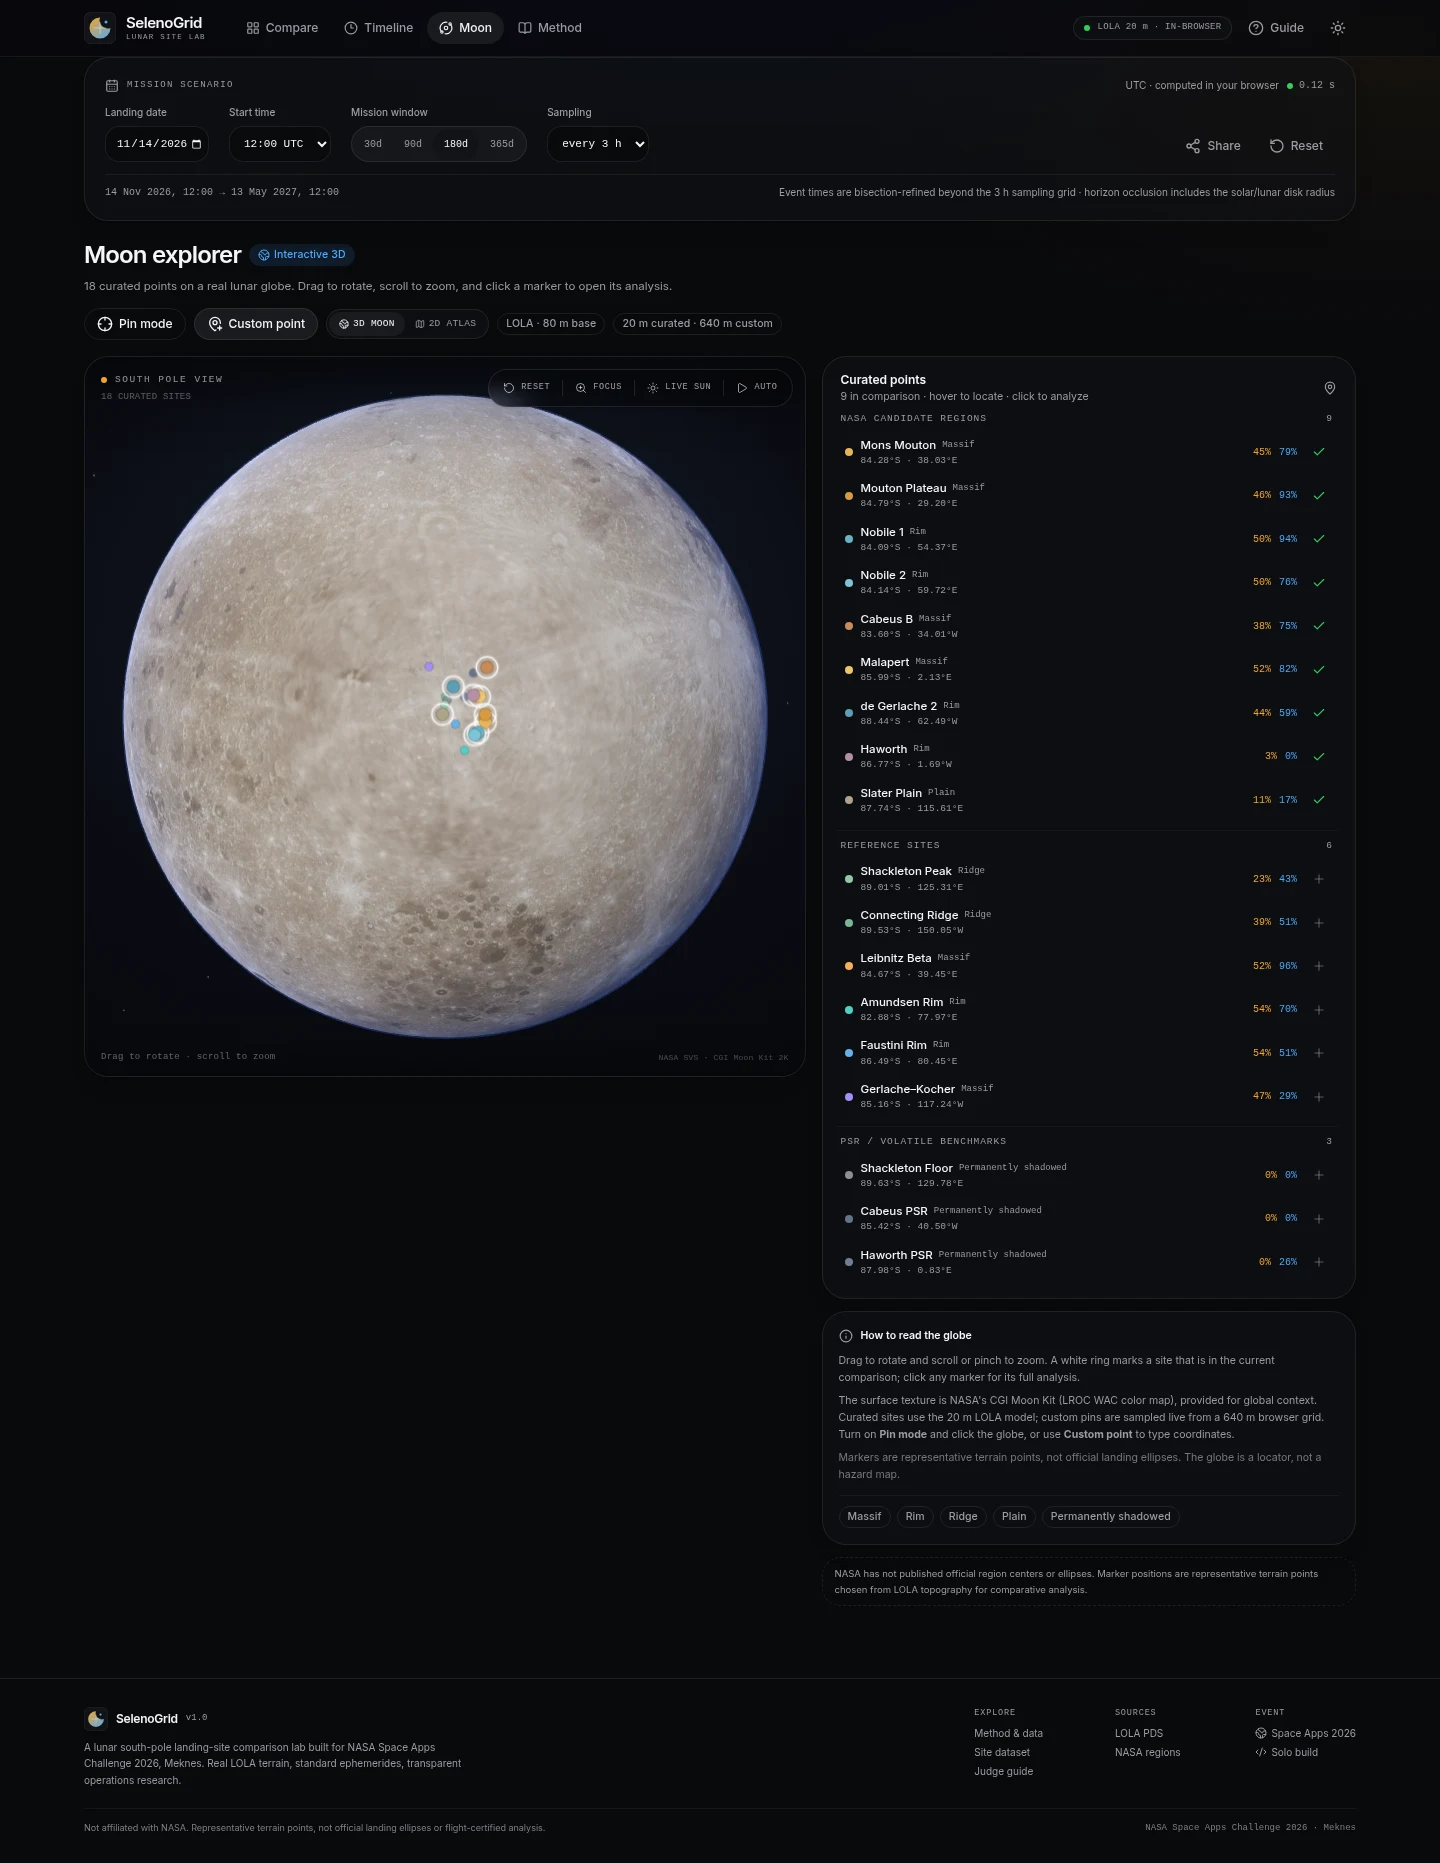
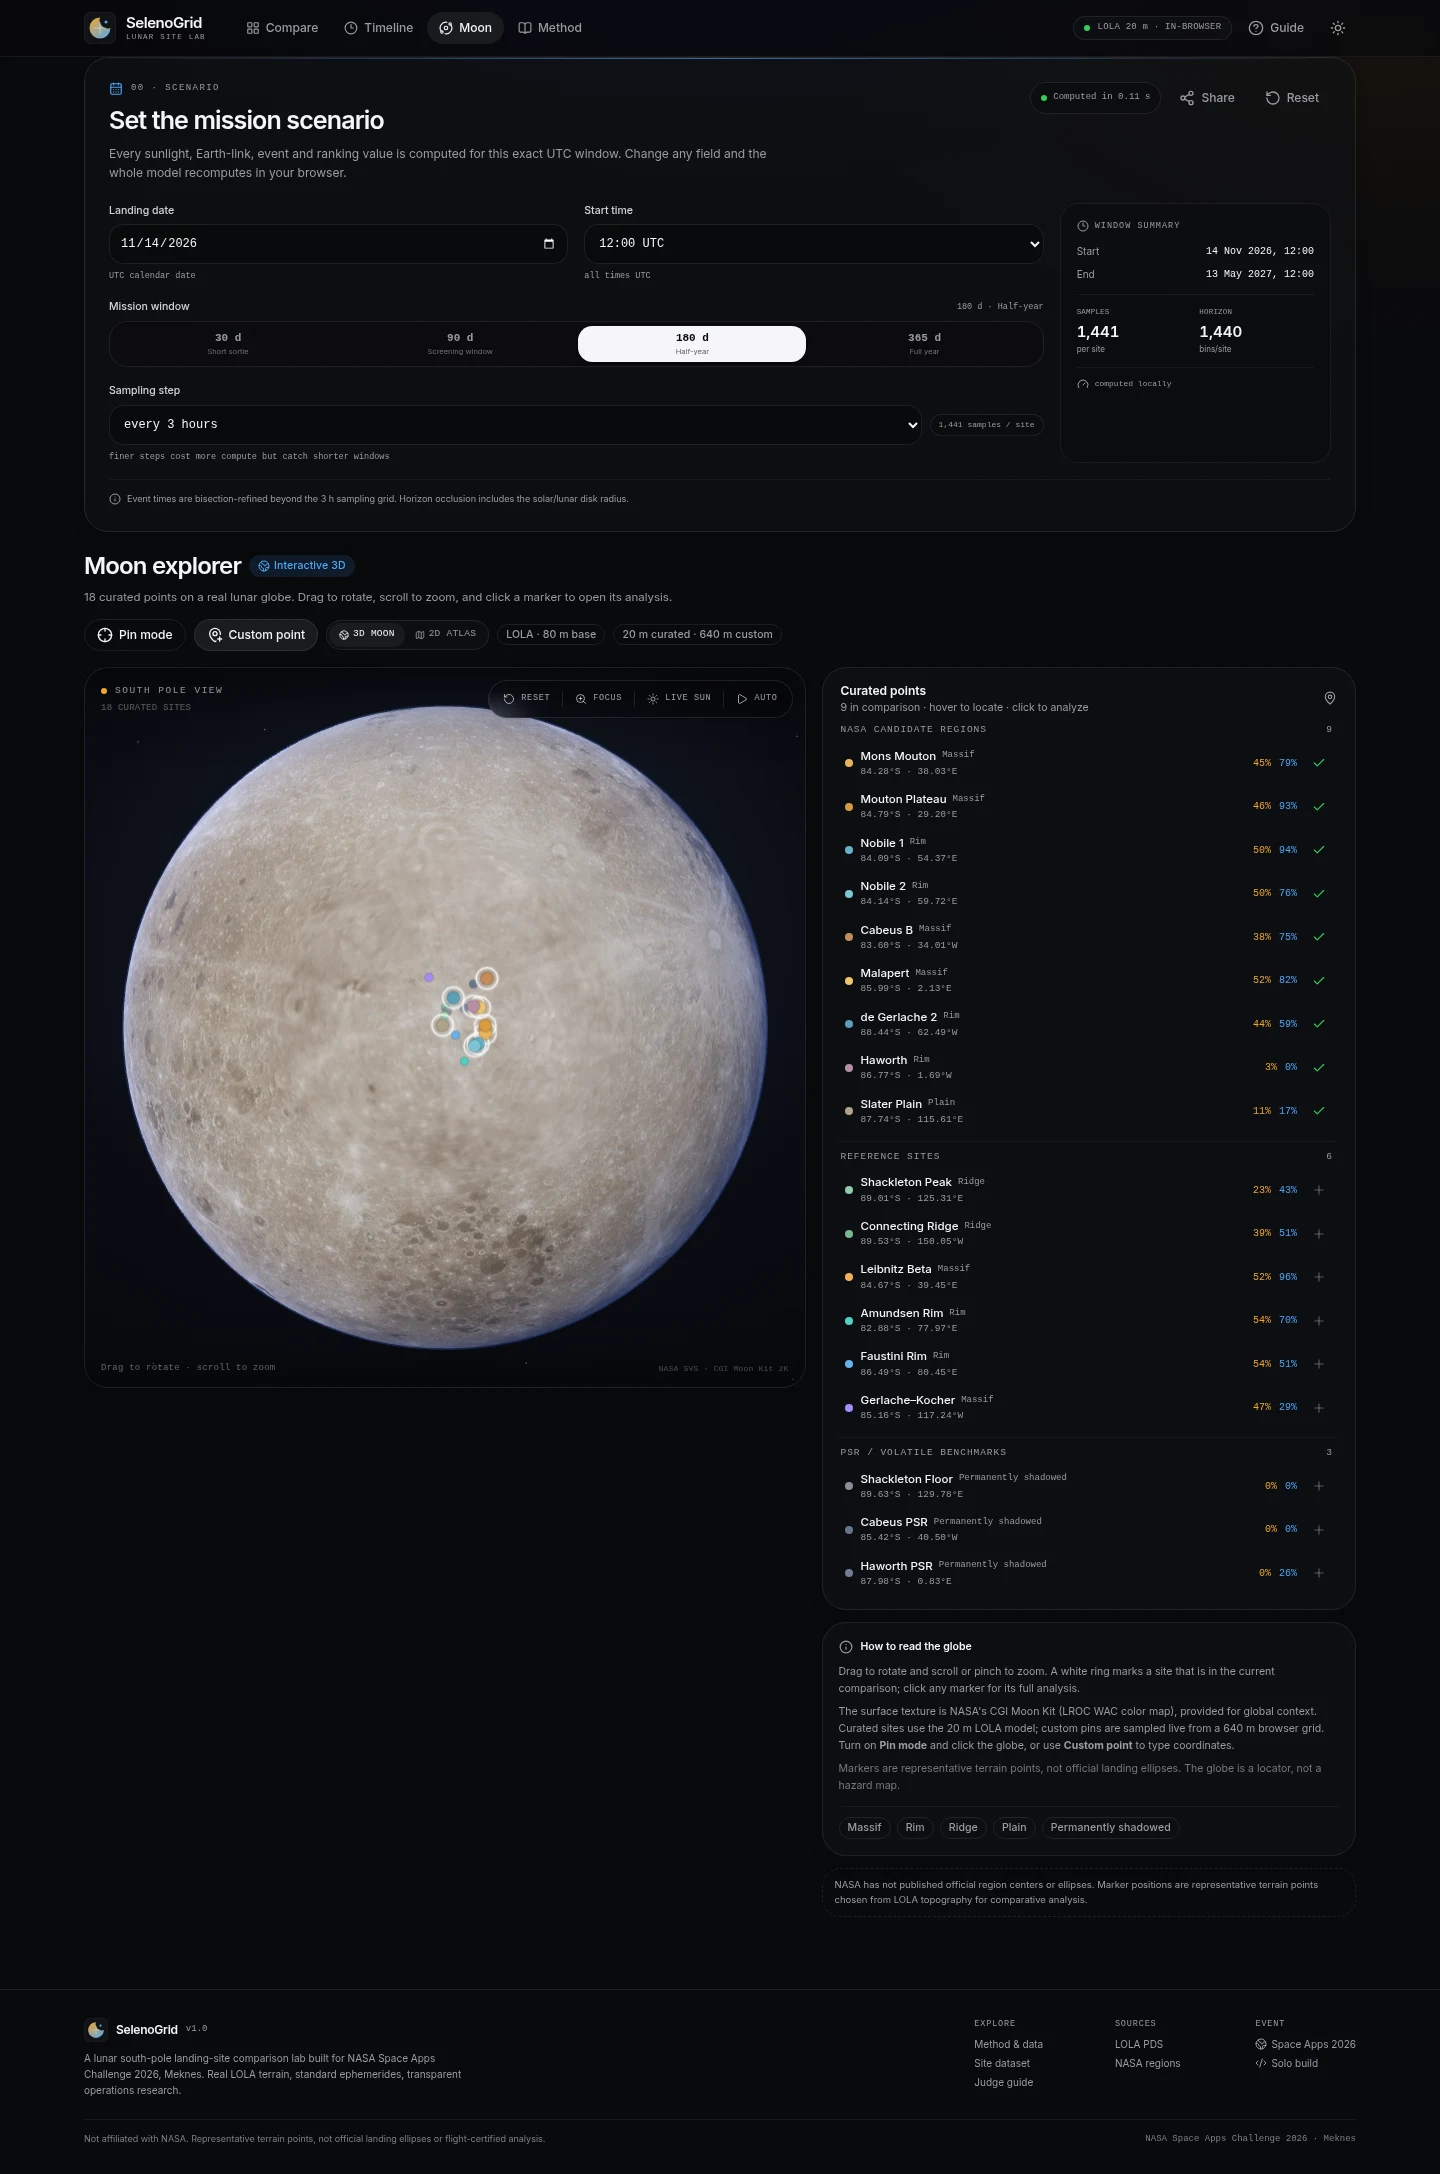
Rebuild the mission scenario as a first-class control surface
Expands the scenario bar into a clear scenario builder with UTC framing, four window presets, explicit sampling, a start/end and sample-count summary, local compute status, share and reset actions, and updated screenshots.

diff --git a/src/components/ScenarioBar.tsx b/src/components/ScenarioBar.tsx
@@ -1,10 +1,24 @@
 import { useState } from 'react'
-import { CalendarDays, Check, Loader2, RotateCcw, Share2 } from 'lucide-react'
+import {
+  CalendarDays,
+  Check,
+  Clock3,
+  Gauge,
+  Info,
+  Loader2,
+  RotateCcw,
+  Share2,
+} from 'lucide-react'
 import { Button } from '@/components/ui/button'
 import { cn } from '@/lib/utils'
 import { addDays, fmtDateTimeUtc } from '@/lib/format'
 
-const WINDOWS = [30, 90, 180, 365]
+const WINDOWS = [
+  { days: 30, hint: 'Short sortie' },
+  { days: 90, hint: 'Screening window' },
+  { days: 180, hint: 'Half-year' },
+  { days: 365, hint: 'Full year' },
+]
 const STEPS = [1, 3, 6]
 const HOURS = [0, 6, 12, 18]
 
@@ -34,8 +48,13 @@ export function ScenarioBar({
   computeMs: number
 }) {
   const [copied, setCopied] = useState(false)
-  const startMs = Date.parse(`${date}T${String(hour).padStart(2, '0')}:00:00.000Z`)
+  const summaryDate = /^\d{4}-\d{2}-\d{2}$/.test(date)
+    ? date
+    : new Date().toISOString().slice(0, 10)
+  const startMs = Date.parse(`${summaryDate}T${String(hour).padStart(2, '0')}:00:00.000Z`)
   const endMs = addDays(startMs, days)
+  const samples = Math.round((days * 86_400_000) / (stepHours * 3_600_000)) + 1
+  const windowHint = WINDOWS.find((item) => item.days === days)?.hint ?? `${days} days`
 
   const share = async () => {
     const link = window.location.href
@@ -58,97 +77,47 @@ export function ScenarioBar({
   return (
     <section
       id="scenario"
-      className="rounded-2xl border border-border bg-card/55 p-4 shadow-[var(--shadow-card)] sm:p-5"
+      className="relative scroll-mt-20 overflow-hidden rounded-2xl border border-border bg-card/60 p-5 shadow-[var(--shadow-card)] sm:p-6"
     >
-      <div className="flex flex-wrap items-center justify-between gap-2">
-        <div className="flex items-center gap-2 font-mono text-[9px] tracking-[0.14em] text-muted-foreground">
-          <CalendarDays className="size-3.5" />
-          MISSION SCENARIO
-        </div>
-        <div className="flex items-center gap-2 text-[10px] text-muted-foreground">
-          <span className="hidden sm:inline">UTC · computed in your browser</span>
-          {computing ? (
-            <span className="inline-flex items-center gap-1.5 text-earth" aria-live="polite">
-              <Loader2 className="size-3 animate-spin" />
-              Recomputing
-            </span>
-          ) : (
-            <span className="inline-flex items-center gap-1.5 font-mono" aria-live="polite">
-              <span className="size-1.5 rounded-full bg-success" />
-              {computeMs > 0 ? `${(computeMs / 1000).toFixed(2)} s` : 'ready'}
-            </span>
-          )}
-        </div>
-      </div>
+      <div
+        aria-hidden
+        className="absolute inset-x-0 top-0 h-px bg-gradient-to-r from-transparent via-earth/60 to-transparent"
+      />
 
-      <div className="mt-3 flex flex-wrap items-end gap-x-5 gap-y-3">
-        <label className="flex flex-col gap-1.5">
-          <span className="text-[10px] font-medium text-muted-foreground">Landing date</span>
-          <span className="relative">
-            <input
-              type="date"
-              value={date}
-              min="2024-01-01"
-              max="2035-12-31"
-              onChange={(e) => onDate(e.target.value)}
-              className="h-9 rounded-lg border border-border bg-background px-2.5 pr-1 font-mono text-[16px] text-foreground outline-none transition focus:border-ring focus:ring-2 focus:ring-ring/20 sm:text-[11px]"
-            />
-          </span>
-        </label>
-
-        <label className="flex flex-col gap-1.5">
-          <span className="text-[10px] font-medium text-muted-foreground">Start time</span>
-          <select
-            value={hour}
-            onChange={(e) => onHour(Number(e.target.value))}
-            className="h-9 rounded-lg border border-border bg-background px-2.5 font-mono text-[16px] text-foreground outline-none transition focus:border-ring focus:ring-2 focus:ring-ring/20 sm:text-[11px]"
-          >
-            {HOURS.map((h) => (
-              <option key={h} value={h}>
-                {String(h).padStart(2, '0')}:00 UTC
-              </option>
-            ))}
-          </select>
-        </label>
-
-        <div className="flex flex-col gap-1.5">
-          <span className="text-[10px] font-medium text-muted-foreground">Mission window</span>
-          <div className="flex h-9 items-center gap-0.5 rounded-full border border-border bg-secondary/70 p-0.5">
-            {WINDOWS.map((d) => (
-              <button
-                key={d}
-                type="button"
-                onClick={() => onDays(d)}
-                aria-pressed={days === d}
-                className={cn(
-                  'h-7 rounded-full px-2.5 font-mono text-[10px] transition-colors',
-                  days === d
-                    ? 'bg-card text-foreground shadow-sm'
-                    : 'text-muted-foreground hover:text-foreground',
-                )}
-              >
-                {d}d
-              </button>
-            ))}
+      <div className="flex flex-wrap items-start justify-between gap-3">
+        <div>
+          <div className="flex items-center gap-2 font-mono text-[9px] tracking-[0.16em] text-muted-foreground uppercase">
+            <CalendarDays className="size-3.5 text-earth" />
+            00 · Scenario
           </div>
+          <h2 className="mt-1.5 text-[22px] font-semibold tracking-[-0.035em] sm:text-[25px]">
+            Set the mission scenario
+          </h2>
+          <p className="mt-1 max-w-2xl text-[12px] leading-relaxed text-muted-foreground">
+            Every sunlight, Earth-link, event and ranking value is computed for this exact UTC
+            window. Change any field and the whole model recomputes in your browser.
+          </p>
         </div>
 
-        <label className="flex flex-col gap-1.5">
-          <span className="text-[10px] font-medium text-muted-foreground">Sampling</span>
-          <select
-            value={stepHours}
-            onChange={(e) => onStep(Number(e.target.value))}
-            className="h-9 rounded-lg border border-border bg-background px-2.5 font-mono text-[16px] text-foreground outline-none transition focus:border-ring focus:ring-2 focus:ring-ring/20 sm:text-[11px]"
+        <div className="flex flex-wrap items-center gap-1.5">
+          <span
+            className={cn(
+              'inline-flex h-8 items-center gap-1.5 rounded-full border border-border bg-background/50 px-2.5 font-mono text-[9px]',
+              computing ? 'text-earth' : 'text-muted-foreground',
+            )}
+            aria-live="polite"
           >
-            {STEPS.map((s) => (
-              <option key={s} value={s}>
-                every {s} h
-              </option>
-            ))}
-          </select>
-        </label>
-
-        <div className="ml-auto flex items-center gap-1">
+            {computing ? (
+              <Loader2 className="size-3 animate-spin" />
+            ) : (
+              <span className="size-1.5 rounded-full bg-success" />
+            )}
+            {computing
+              ? 'Recomputing…'
+              : computeMs > 0
+                ? `Computed in ${(computeMs / 1000).toFixed(2)} s`
+                : 'Ready'}
+          </span>
           <Button
             variant="ghost"
             size="sm"
@@ -171,14 +140,146 @@ export function ScenarioBar({
         </div>
       </div>
 
-      <div className="mt-3 flex flex-wrap items-center justify-between gap-2 border-t border-border/70 pt-2.5 text-[10px] text-muted-foreground">
-        <span className="font-mono">
-          {fmtDateTimeUtc(startMs)} → {fmtDateTimeUtc(endMs)}
-        </span>
-        <span>
-          Event times are bisection-refined beyond the {stepHours} h sampling grid · horizon
-          occlusion includes the solar/lunar disk radius
-        </span>
+      <div className="mt-5 grid gap-4 xl:grid-cols-[1.55fr_0.45fr]">
+        <div className="grid grid-cols-2 gap-3 sm:gap-4">
+          <label className="flex flex-col gap-1.5">
+            <span className="text-[10.5px] font-medium text-foreground/85">Landing date</span>
+            <span className="relative">
+              <input
+                type="date"
+                value={date}
+                min="2024-01-01"
+                max="2035-12-31"
+                onChange={(e) => onDate(e.target.value)}
+                className="h-10 w-full rounded-lg border border-border bg-background px-2.5 font-mono text-[16px] text-foreground outline-none transition focus:border-ring focus:ring-2 focus:ring-ring/20 sm:text-[12px]"
+              />
+            </span>
+            <span className="font-mono text-[8.5px] text-muted-foreground">UTC calendar date</span>
+          </label>
+
+          <label className="flex flex-col gap-1.5">
+            <span className="text-[10.5px] font-medium text-foreground/85">Start time</span>
+            <select
+              value={hour}
+              onChange={(e) => onHour(Number(e.target.value))}
+              className="h-10 w-full rounded-lg border border-border bg-background px-2.5 font-mono text-[16px] text-foreground outline-none transition focus:border-ring focus:ring-2 focus:ring-ring/20 sm:text-[12px]"
+            >
+              {HOURS.map((h) => (
+                <option key={h} value={h}>
+                  {String(h).padStart(2, '0')}:00 UTC
+                </option>
+              ))}
+            </select>
+            <span className="font-mono text-[8.5px] text-muted-foreground">all times UTC</span>
+          </label>
+
+          <div className="col-span-2 flex flex-col gap-1.5">
+            <div className="flex items-center justify-between gap-2">
+              <span className="text-[10.5px] font-medium text-foreground/85">Mission window</span>
+              <span className="font-mono text-[8.5px] text-muted-foreground">
+                {days} d · {windowHint}
+              </span>
+            </div>
+            <div className="grid grid-cols-4 gap-1 rounded-xl border border-border bg-background/45 p-1">
+              {WINDOWS.map((item) => {
+                const active = days === item.days
+                return (
+                  <button
+                    key={item.days}
+                    type="button"
+                    onClick={() => onDays(item.days)}
+                    aria-pressed={active}
+                    title={item.hint}
+                    className={cn(
+                      'flex h-9 flex-col items-center justify-center rounded-lg transition-colors',
+                      active
+                        ? 'bg-foreground text-background shadow-sm'
+                        : 'text-muted-foreground hover:bg-secondary hover:text-foreground',
+                    )}
+                  >
+                    <span className="font-mono text-[11px] font-semibold">{item.days} d</span>
+                    <span
+                      className={cn(
+                        'max-w-full truncate text-[7.5px]',
+                        active ? 'text-background/65' : 'text-muted-foreground/70',
+                      )}
+                    >
+                      {item.hint}
+                    </span>
+                  </button>
+                )
+              })}
+            </div>
+          </div>
+
+          <label className="col-span-2 flex flex-col gap-1.5">
+            <span className="text-[10.5px] font-medium text-foreground/85">Sampling step</span>
+            <div className="flex items-center gap-2">
+              <select
+                value={stepHours}
+                onChange={(e) => onStep(Number(e.target.value))}
+                className="h-10 w-full rounded-lg border border-border bg-background px-2.5 font-mono text-[16px] text-foreground outline-none transition focus:border-ring focus:ring-2 focus:ring-ring/20 sm:text-[12px]"
+              >
+                {STEPS.map((s) => (
+                  <option key={s} value={s}>
+                    every {s} hour{s > 1 ? 's' : ''}
+                  </option>
+                ))}
+              </select>
+              <span className="hidden shrink-0 rounded-full border border-border bg-background/50 px-2 py-1 font-mono text-[8px] text-muted-foreground sm:inline">
+                {samples.toLocaleString()} samples / site
+              </span>
+            </div>
+            <span className="font-mono text-[8.5px] text-muted-foreground">
+              finer steps cost more compute but catch shorter windows
+            </span>
+          </label>
+        </div>
+
+        <aside className="rounded-xl border border-border/70 bg-background/40 p-3.5 sm:p-4">
+          <div className="flex items-center gap-1.5 font-mono text-[8.5px] tracking-[0.12em] text-muted-foreground uppercase">
+            <Clock3 className="size-3" />
+            Window summary
+          </div>
+          <div className="mt-3 space-y-2 text-[10px]">
+            <div className="flex items-start justify-between gap-3">
+              <span className="text-muted-foreground">Start</span>
+              <span className="text-right font-mono">{fmtDateTimeUtc(startMs)}</span>
+            </div>
+            <div className="flex items-start justify-between gap-3">
+              <span className="text-muted-foreground">End</span>
+              <span className="text-right font-mono">{fmtDateTimeUtc(endMs)}</span>
+            </div>
+          </div>
+          <div className="mt-3 grid grid-cols-2 gap-2 border-t border-border/60 pt-3">
+            <div>
+              <div className="font-mono text-[7.5px] tracking-wide text-muted-foreground uppercase">
+                Samples
+              </div>
+              <div className="tabular mt-0.5 text-[15px] font-semibold">
+                {samples.toLocaleString()}
+              </div>
+              <div className="text-[8px] text-muted-foreground">per site</div>
+            </div>
+            <div>
+              <div className="font-mono text-[7.5px] tracking-wide text-muted-foreground uppercase">
+                Horizon
+              </div>
+              <div className="tabular mt-0.5 text-[15px] font-semibold">1,440</div>
+              <div className="text-[8px] text-muted-foreground">bins/site</div>
+            </div>
+          </div>
+          <div className="mt-3 flex items-center gap-1.5 border-t border-border/60 pt-2.5 font-mono text-[8px] text-muted-foreground">
+            <Gauge className="size-3" />
+            {computing ? 'recomputing locally' : 'computed locally'}
+          </div>
+        </aside>
+      </div>
+
+      <div className="mt-4 flex items-start gap-1.5 border-t border-border/60 pt-3 text-[9px] leading-relaxed text-muted-foreground">
+        <Info className="mt-px size-3 shrink-0" />
+        Event times are bisection-refined beyond the {stepHours} h sampling grid. Horizon occlusion
+        includes the solar/lunar disk radius.
       </div>
     </section>
   )

diff --git a/README.md b/README.md
@@ -58,7 +58,7 @@ No environment variables, API keys, or database are needed. The shipped curated 
 
 The same route is written down in the [judge guide](docs/JUDGE_GUIDE.md).
 
-A persistent scenario bar controls the whole app:
+A persistent mission-scenario builder controls the whole app. It shows the UTC start/end, sample count, and current compute state, not just a date form:
 
 | Control | Options |
 | --- | --- |
